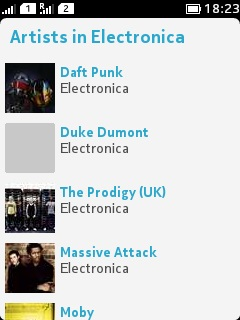
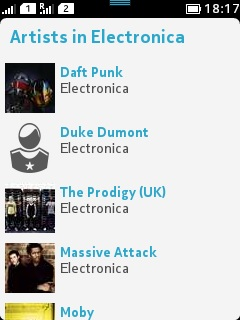
Added Placeholders for displaying placeholders in cases when thumbnails are not available. Updated screenshots.

Changed region(s): [[0.0, 0.375, 0.2333, 0.5625], [0.9333, 0.0, 1.0, 0.0625], [0.4375, 0.0, 0.5542, 0.0312]]

diff --git a/src/com/nokia/example/musicexplorer/settings/Placeholders.java b/src/com/nokia/example/musicexplorer/settings/Placeholders.java
@@ -1,0 +1,95 @@
+/**
+ * Copyright (c) 2013 Nokia Corporation. All rights reserved. Nokia and Nokia
+ * Connecting People are registered trademarks of Nokia Corporation. Oracle and
+ * Java are trademarks or registered trademarks of Oracle and/or its affiliates.
+ * Other product and company names mentioned herein may be trademarks or trade
+ * names of their respective owners. See LICENSE.TXT for license information.
+ */
+package com.nokia.example.musicexplorer.settings;
+
+import com.nokia.example.musicexplorer.data.model.AlbumModel;
+import com.nokia.example.musicexplorer.data.model.ArtistModel;
+import com.nokia.example.musicexplorer.data.model.GenericProductModel;
+import java.io.IOException;
+import java.util.Hashtable;
+import javax.microedition.lcdui.Graphics;
+import javax.microedition.lcdui.Image;
+import org.tantalum.util.L;
+
+/**
+ * Placeholder images for artists and albums that do not have a thumbnail.
+ */
+public class Placeholders {
+    public static final String ARTIST_PLACEHOLDER = "/artist_icon.png";
+    public static final String ALBUM_PLACEHOLDER = "/album_icon.png";
+    
+    private static Hashtable images;
+    
+    /**
+     * Loads images to a hashtable for further use.
+     * @param pathToImage One of the static strings associated with this class.
+     * @return 
+     */
+    public static Image load(String pathToImage) {
+        Image image = null;
+        
+        if(images == null) {
+            images = new Hashtable();
+        }
+        
+        if(images.containsKey(pathToImage)) {
+            image = (Image) images.get(pathToImage);
+        } else {
+            try {
+                image = Image.createImage(pathToImage);
+                images.put(pathToImage, image);
+            } catch (IOException e) {
+                L.e("Could not load image", pathToImage, e);
+            }
+        }
+        
+        return image;
+    }
+    
+    /**
+     * Paints a placeholder image using a centered anchor. The center point is 
+     * calculated from x, y, width and height.
+     * 
+     * @param graphics
+     * @param model
+     * @param x
+     * @param y
+     * @param width
+     * @param height 
+     */
+    public static void paint(Graphics graphics, GenericProductModel model, int x, int y, int width, int height) {
+        x = x + width / 2;
+        y = y + height / 2;
+        paint(graphics, model, x, y, Graphics.VCENTER | Graphics.HCENTER);
+    }
+    
+    /**
+     * Paint a placeholder image to the given point (x,y) using a custom anchor.
+     * @param graphics
+     * @param model
+     * @param x
+     * @param y
+     * @param anchor 
+     */
+    public static void paint(Graphics graphics, GenericProductModel model, int x, int y, int anchor) {
+        if (model instanceof ArtistModel) {
+            graphics.drawImage(
+                    load(Placeholders.ARTIST_PLACEHOLDER), 
+                    x, 
+                    y, 
+                    anchor);
+
+        } else if (model instanceof AlbumModel) {
+            graphics.drawImage(
+                    load(Placeholders.ALBUM_PLACEHOLDER), 
+                    x, 
+                    y, 
+                    anchor);
+        }
+    }
+}

diff --git a/src/com/nokia/example/musicexplorer/ui/ListItem.java b/src/com/nokia/example/musicexplorer/ui/ListItem.java
@@ -19,6 +19,7 @@ import com.nokia.example.musicexplorer.data.ApiCache;
 import com.nokia.example.musicexplorer.data.model.AlbumModel;
 import com.nokia.example.musicexplorer.data.model.ArtistModel;
 import com.nokia.example.musicexplorer.data.model.GenericProductModel;
+import com.nokia.example.musicexplorer.settings.Placeholders;
 import com.nokia.example.musicexplorer.settings.ThumbnailSizes;
 import com.nokia.mid.ui.DirectGraphics;
 import com.nokia.mid.ui.DirectUtils;
@@ -160,14 +161,10 @@ public class ListItem
         if (thumbnail != null) {
             graphics.drawImage(thumbnail, x, y, Graphics.TOP | Graphics.LEFT);
         } else {
-            graphics.setColor(PLACEHOLDER_RECT_COLOR_HEX_RGB);
-            graphics.fillRoundRect(
-                    x, 
-                    y, 
-                    ListItem.LIST_ITEM_SIDE, 
-                    ListItem.LIST_ITEM_SIDE, 
-                    5, 
-                    5);
+            // Paint a placeholder image if thumbnail is not yet loaded
+            Placeholders.paint(graphics, model, x, y, Graphics.TOP | Graphics.LEFT);
+            
+            // Begin loading thumbnail image
             getThumbnail();
         }
 

diff --git a/src/com/nokia/example/musicexplorer/ui/GridItem.java b/src/com/nokia/example/musicexplorer/ui/GridItem.java
@@ -16,6 +16,7 @@ import org.tantalum.jme.JMEImageUtils;
 
 import com.nokia.example.musicexplorer.data.ApiCache;
 import com.nokia.example.musicexplorer.data.model.GenericProductModel;
+import com.nokia.example.musicexplorer.settings.Placeholders;
 import com.nokia.example.musicexplorer.settings.ThumbnailSizes;
 import com.nokia.mid.ui.DirectGraphics;
 import com.nokia.mid.ui.DirectUtils;
@@ -158,7 +159,7 @@ public class GridItem
 
         public Object exec(Object image) {
             if (image instanceof Image) {
-                // Place
+                // Scale image to fit to the grid. Scales down only.
                 image = JMEImageUtils.scaleImage(
                         (Image) image,
                         width,
@@ -195,8 +196,8 @@ public class GridItem
         if (thumbnail != null) {
             graphics.drawImage(thumbnail, x, y, Graphics.TOP | Graphics.LEFT);
         } else {
-            // Draw placeholder
-            
+            // Paint to the center of the item.
+            Placeholders.paint(graphics, model, x, y, width, height);
             getImage();
         }
         

diff --git a/src/com/nokia/example/musicexplorer/ui/ArtistInfoView.java b/src/com/nokia/example/musicexplorer/ui/ArtistInfoView.java
@@ -12,9 +12,7 @@ import com.nokia.example.musicexplorer.data.model.ArtistModel;
 import org.json.me.JSONArray;
 import org.json.me.JSONException;
 import org.json.me.JSONObject;
-import org.tantalum.CancellationException;
 import org.tantalum.Task;
-import org.tantalum.TimeoutException;
 import org.tantalum.util.L;
 
 /**

diff --git a/src/com/nokia/example/musicexplorer/ui/GridLayout.java b/src/com/nokia/example/musicexplorer/ui/GridLayout.java
@@ -60,6 +60,7 @@ public class GridLayout
         int newHeight = amountOfRows * this.rowHeight + CUSTOM_ITEM_MARGIN_SIZE * 2;
 
         this.setPreferredSize(this.width, newHeight);
+        repaint();
     }
     
     /**
